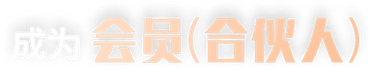
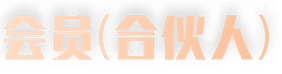
我的页面UI修改

diff --git a/src/pages/mine/page/MinePage.js b/src/pages/mine/page/MinePage.js
@@ -39,6 +39,7 @@ import { mediatorCallFunc } from '../../../SGMediator';
 import { AutoHeightImage } from '../../../components/ui/AutoHeightImage';
 import MineSpellGroupView from './spellGroup/components/MineSpellGroupView';
 import TimeModel from '../model/TimeModel';
+import LinearGradient from 'react-native-linear-gradient';
 
 const {
     // mine_header_bg,
@@ -68,11 +69,11 @@ const {
 
 const vipBg = res.homeBaseImg.mine_vip_bg;
 const vipStatus = {
-    'supMember': {img: res.homeBaseImg.mine_vip_supMember,  width: 106, height: 25},
-    'partner': {img: res.homeBaseImg.mine_vip_partner,      width: 124, height: 25},
-    'noviciate': {img: res.homeBaseImg.mine_vip_noviciate,  width: 107, height: 25},
-    'beBoss': {img: res.homeBaseImg.mine_vip_beBoss,        width: 63 , height: 25},
-    'boss': {img: res.homeBaseImg.mine_vip_boss,            width: 38, height: 25},
+    'supMember': {img: res.homeBaseImg.mine_vip_supMember,  width: 78, height: 25, text:' · 超级会员  更多权益'},
+    'partner': {img: res.homeBaseImg.mine_vip_partner,      width: 94, height: 25, text:' · 做合伙人拿奖励金'},
+    'noviciate': {img: res.homeBaseImg.mine_vip_noviciate,  width: 79, height: 25, text:' · 开启属于你的店铺'},
+    'beBoss': {img: res.homeBaseImg.mine_vip_beBoss,        width: 35, height: 25, text:' · 秀一秀  赚到够'},
+    'boss': {img: res.homeBaseImg.mine_vip_boss,            width: 38, height: 25, text:' · 秀一秀  赚到够'},
 };
 /**
  * @author chenxiang
@@ -85,7 +86,7 @@ const vipStatus = {
 const { px2dp, headerHeight, statusBarHeight, getImgHeightWithWidth } = ScreenUtils;
 const headerBgSize = { width: 375, height: 237 };
 const scaleHeaderSize = getImgHeightWithWidth(headerBgSize);
-const halfScaleHeaderSize = scaleHeaderSize / 2;
+// const halfScaleHeaderSize = scaleHeaderSize / 2;
 // const offset = scaleHeaderSize - headerHeight;
 @observer
 export default class MinePage extends BasePage {
@@ -227,7 +228,7 @@ export default class MinePage extends BasePage {
     _onScroll = (event) => {
         this.offsetY = event.nativeEvent.contentOffset.y;
 
-        if (this.offsetY <= halfScaleHeaderSize) {
+        if (this.offsetY <= 0) {
             if (!this.state.changeHeader) {
                 this.setState({
                     changeHeader: true
@@ -289,7 +290,6 @@ export default class MinePage extends BasePage {
         return (
             <View style={{ flex: 1 }}>
                 <PullView
-                    bounces={false}
                     contentBackgroundColor={'#F7F7F7'}
                     backgroundColor={'white'}
                     renderForeground={this.renderUserHead}
@@ -299,7 +299,6 @@ export default class MinePage extends BasePage {
                     onScroll={this._onScroll}
                     showsVerticalScrollIndicator={false}
                 >
-                    {this.renderLevelName()}
                     {this.renderBodyView()}
                 </PullView>
                 {/*{this.navRender()}*/}
@@ -399,80 +398,49 @@ export default class MinePage extends BasePage {
                     {this.accountRender()}
                 </View>
                 {this.copyModalRender()}
-                {/*{this.renderLevelName(index)}*/}
+                {this.renderLevelName()}
             </View>
         );
     };
 
     renderLevelName = () => {
         return (
-            <View style={{flex:1,marginTop:10}}>
+            <View style={{flex: 1, marginTop: 10, justifyContent: 'flex-end'}}>
                 <ImageBackground style={{
                     alignSelf: 'center',
                     flexDirection: 'row',
                     alignItems: 'center',
-                    width:ScreenUtils.width,
+                    width: ScreenUtils.width,
                     height: (ScreenUtils.width) * 54 / 381,
                     borderRadius: 10
                 }} source={vipBg}>
-                    <View style={{flexDirection: 'row', marginLeft:33,marginRight:27}}>
-                        <Image style={{width:vipStatus.supMember.width, height:vipStatus.supMember.height}} source={vipStatus.supMember.img}/>
+                    <View style={{flexDirection: 'row', marginLeft: 33, alignItems: 'center'}}>
+                        <Text style={{color: 'white', fontSize: 12}}>成为</Text>
+                        <Image style={{width: vipStatus.partner.width, height: vipStatus.partner.height}}
+                               source={vipStatus.partner.img}/>
+                        <Text style={{color: 'white', fontSize: 12}}>{vipStatus.partner.text}</Text>
+                        <View style={{flex:1,alignItems:'flex-end', marginRight:27}}>
+                        <LinearGradient style={styles.btnStyle}
+                                        start={{x: 0, y: 0}}
+                                        end={{x: 1, y: 1}}
+                                        colors={['#FFE1C2', '#FFFEE3']}
+                        >
+                            <TouchableOpacity activeOpacity={0.8} style={{alignItems: 'center'}}
+                                              onPress={() => {
+                                              }}>
+                                <View style={styles.btnStyle}>
+                                    <Text style={{color: '#333333', fontSize: 12}} allowFontScaling={false}>
+                                        如何开通
+                                    </Text>
+                                    <Image source={res.homeBaseImg.mine_arrow_black}
+                                           style={{width: 12, height: 12}}/>
+                                </View>
+                            </TouchableOpacity>
+                        </LinearGradient>
                     </View>
-                </ImageBackground>
-
-                <ImageBackground style={{
-                    alignSelf: 'center',
-                    flexDirection: 'row',
-                    alignItems: 'center',
-                    width:ScreenUtils.width,
-                    height: (ScreenUtils.width) * 54 / 381,
-                    borderRadius: 10
-                }} source={vipBg}>
-                    <View style={{flexDirection: 'row', marginLeft:33,marginRight:27}}>
-                        <Image style={{width:vipStatus.partner.width, height:vipStatus.partner.height}} source={vipStatus.partner.img}/>
-                    </View>
-                </ImageBackground>
-
-                <ImageBackground style={{
-                    alignSelf: 'center',
-                    flexDirection: 'row',
-                    alignItems: 'center',
-                    width:ScreenUtils.width,
-                    height: (ScreenUtils.width) * 54 / 381,
-                    borderRadius: 10
-                }} source={vipBg}>
-                    <View style={{flexDirection: 'row', marginLeft:33,marginRight:27}}>
-                        <Image style={{width:vipStatus.noviciate.width, height:vipStatus.noviciate.height}} source={vipStatus.noviciate.img}/>
-                    </View>
-                </ImageBackground>
-
-                <ImageBackground style={{
-                    alignSelf: 'center',
-                    flexDirection: 'row',
-                    alignItems: 'center',
-                    width:ScreenUtils.width,
-                    height: (ScreenUtils.width) * 54 / 381,
-                    borderRadius: 10
-                }} source={vipBg}>
-                    <View style={{flexDirection: 'row', marginLeft:33,marginRight:27}}>
-                        <Image style={{width:vipStatus.beBoss.width, height:vipStatus.beBoss.height}} source={vipStatus.beBoss.img}/>
-                    </View>
-                </ImageBackground>
-
-                <ImageBackground style={{
-                    alignSelf: 'center',
-                    flexDirection: 'row',
-                    alignItems: 'center',
-                    width:ScreenUtils.width,
-                    height: (ScreenUtils.width) * 54 / 381,
-                    borderRadius: 10
-                }} source={vipBg}>
-                    <View style={{flexDirection: 'row', marginLeft:33,marginRight:27}}>
-                        <Image style={{width:vipStatus.boss.width, height:vipStatus.boss.height}} source={vipStatus.boss.img}/>
                     </View>
                 </ImageBackground>
             </View>
-
         );
     };
 
@@ -1201,5 +1169,13 @@ const styles = StyleSheet.create({
     copyTextStyle: {
         color: DesignRule.white,
         fontSize: DesignRule.fontSize_22
+    },
+    btnStyle:{
+        flexDirection: 'row',
+        alignItems:'center',
+        justifyContent:'center',
+        borderRadius: 10,
+        width:73,
+        height:20
     }
 });

diff --git a/src/pages/mine/res/homeBaseImg/index.js b/src/pages/mine/res/homeBaseImg/index.js
@@ -39,8 +39,8 @@ const index = {
     mine_vip_boss: require('./mine_boss.png'),              //店长
     mine_btn_red: require('./btnRed.png'),
     mine_btn_yellow: require('./btnYellow.png'),
-    mine_levelBg: require('./levelBg.png')
-
+    mine_levelBg: require('./levelBg.png'),
+    mine_arrow_black: require('./mine_vip_arrow_black.png')
 
 };
 export default index;
